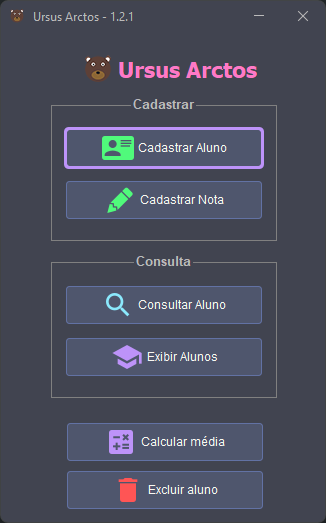
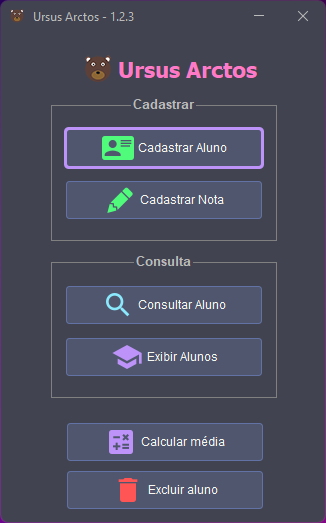
Add how to run on README and renamed main class

diff --git a/src/main/java/br/edu/ifms/ed/MainWindow.java b/src/main/java/br/edu/ifms/ed/MainWindow.java
@@ -18,7 +18,7 @@ import java.awt.event.MouseEvent;
 import javax.swing.*;
 
 @Slf4j
-public class CadastroAluno {
+public class MainWindow {
 
     private static final int BUTTON_WIDTH = 200;
     private static final int BUTTON_HEIGHT = 42;
@@ -30,7 +30,7 @@ public class CadastroAluno {
     private final StudentStack stack;
     private JFrame mainFrame;
 
-    private CadastroAluno() {
+    private MainWindow() {
         stack = new StudentStack();
         initialize();
     }
@@ -39,7 +39,7 @@ public class CadastroAluno {
         EventQueue.invokeLater(() -> {
             try {
                 FlatDraculaIJTheme.setup();
-                CadastroAluno window = new CadastroAluno();
+                MainWindow window = new MainWindow();
                 window.mainFrame.setVisible(true);
             } catch (Exception e) {
                 log.error(e.getMessage());

diff --git a/src/main/java/br/edu/ifms/ed/constant/Textual.java b/src/main/java/br/edu/ifms/ed/constant/Textual.java
@@ -39,7 +39,7 @@ public class Textual {
     public static final String SEM_ALUNOS_CADASTRADOS = "Não existem alunos cadastrados!";
     public static final String CONSULTA = "Consulta";
     public static final String CADASTRAR = "Cadastrar";
-    private static final String VERSION = "1.2.2";
+    private static final String VERSION = "1.2.3";
     public static final String TITLE_VERSION = TITLE + " - " + VERSION;
 
     private Textual() {

diff --git a/README.md b/README.md
@@ -1,6 +1,6 @@
-# Ursus Arctos
-
 [![Maven Java CI](https://github.com/Gaboso/UrsusArctos/actions/workflows/maven.yml/badge.svg)](https://github.com/Gaboso/UrsusArctos/actions/workflows/maven.yml) [![CodeQL](https://github.com/Gaboso/UrsusArctos/actions/workflows/codeql-analysis.yml/badge.svg)](https://github.com/Gaboso/UrsusArctos/actions/workflows/codeql-analysis.yml)
+
+# Ursus Arctos
 
 ![logotipo](img/logo_256.png)
 
@@ -12,16 +12,26 @@ Project that uses _Swing_ to construct the graphical interface, and the stack st
 
 Project was presented in the discipline of data structure as a study on stacks.
 
-> Possibility to include a student in the stack and also a grade to it, even to calculate the class average.
+Possibility to include a student in the stack and also a grade to it, even to calculate the class average.
 
-> When you delete a student from the stack, all students who have been inserted after the deleted student are deleted.
+When you delete a student from the stack, all students who have been inserted after the deleted student are deleted.
 
 ## How to build
 
 Run the __`build.bat`__ file for _Windows_ or __`build.sh`__ for _Linux_, both are in the root directory of this project
 
-> After execution, the file __`ursus-arctos.jar`__ will be generated in the directory `target`
+> After execution, the file __`ursus-arctos-1.2.3.jar`__ will be generated in the directory `target`
+
+## How to use
+
+After build, run following command to start:
+
+```shell
+java -jar ursus-arctos-1.2.3.jar
+```
 
 ## Screenshot
 
-![screenshot](img/screenshot.png)
+<p align="center" width="100%">
+    <img src="img/screenshot.png" alt="diagram">
+</p>

diff --git a/.github/ISSUE_TEMPLATE/bug_report.md b/.github/ISSUE_TEMPLATE/bug_report.md
@@ -22,7 +22,7 @@ If applicable, add screenshots to help explain your problem.
 
 **Desktop (please complete the following information):**
  - OS: [e.g. Linux]
- - App Version [e.g. 1.2.2]
+ - App Version [e.g. 1.2.3]
 
 **Additional context**
 Add any other context about the problem here.
